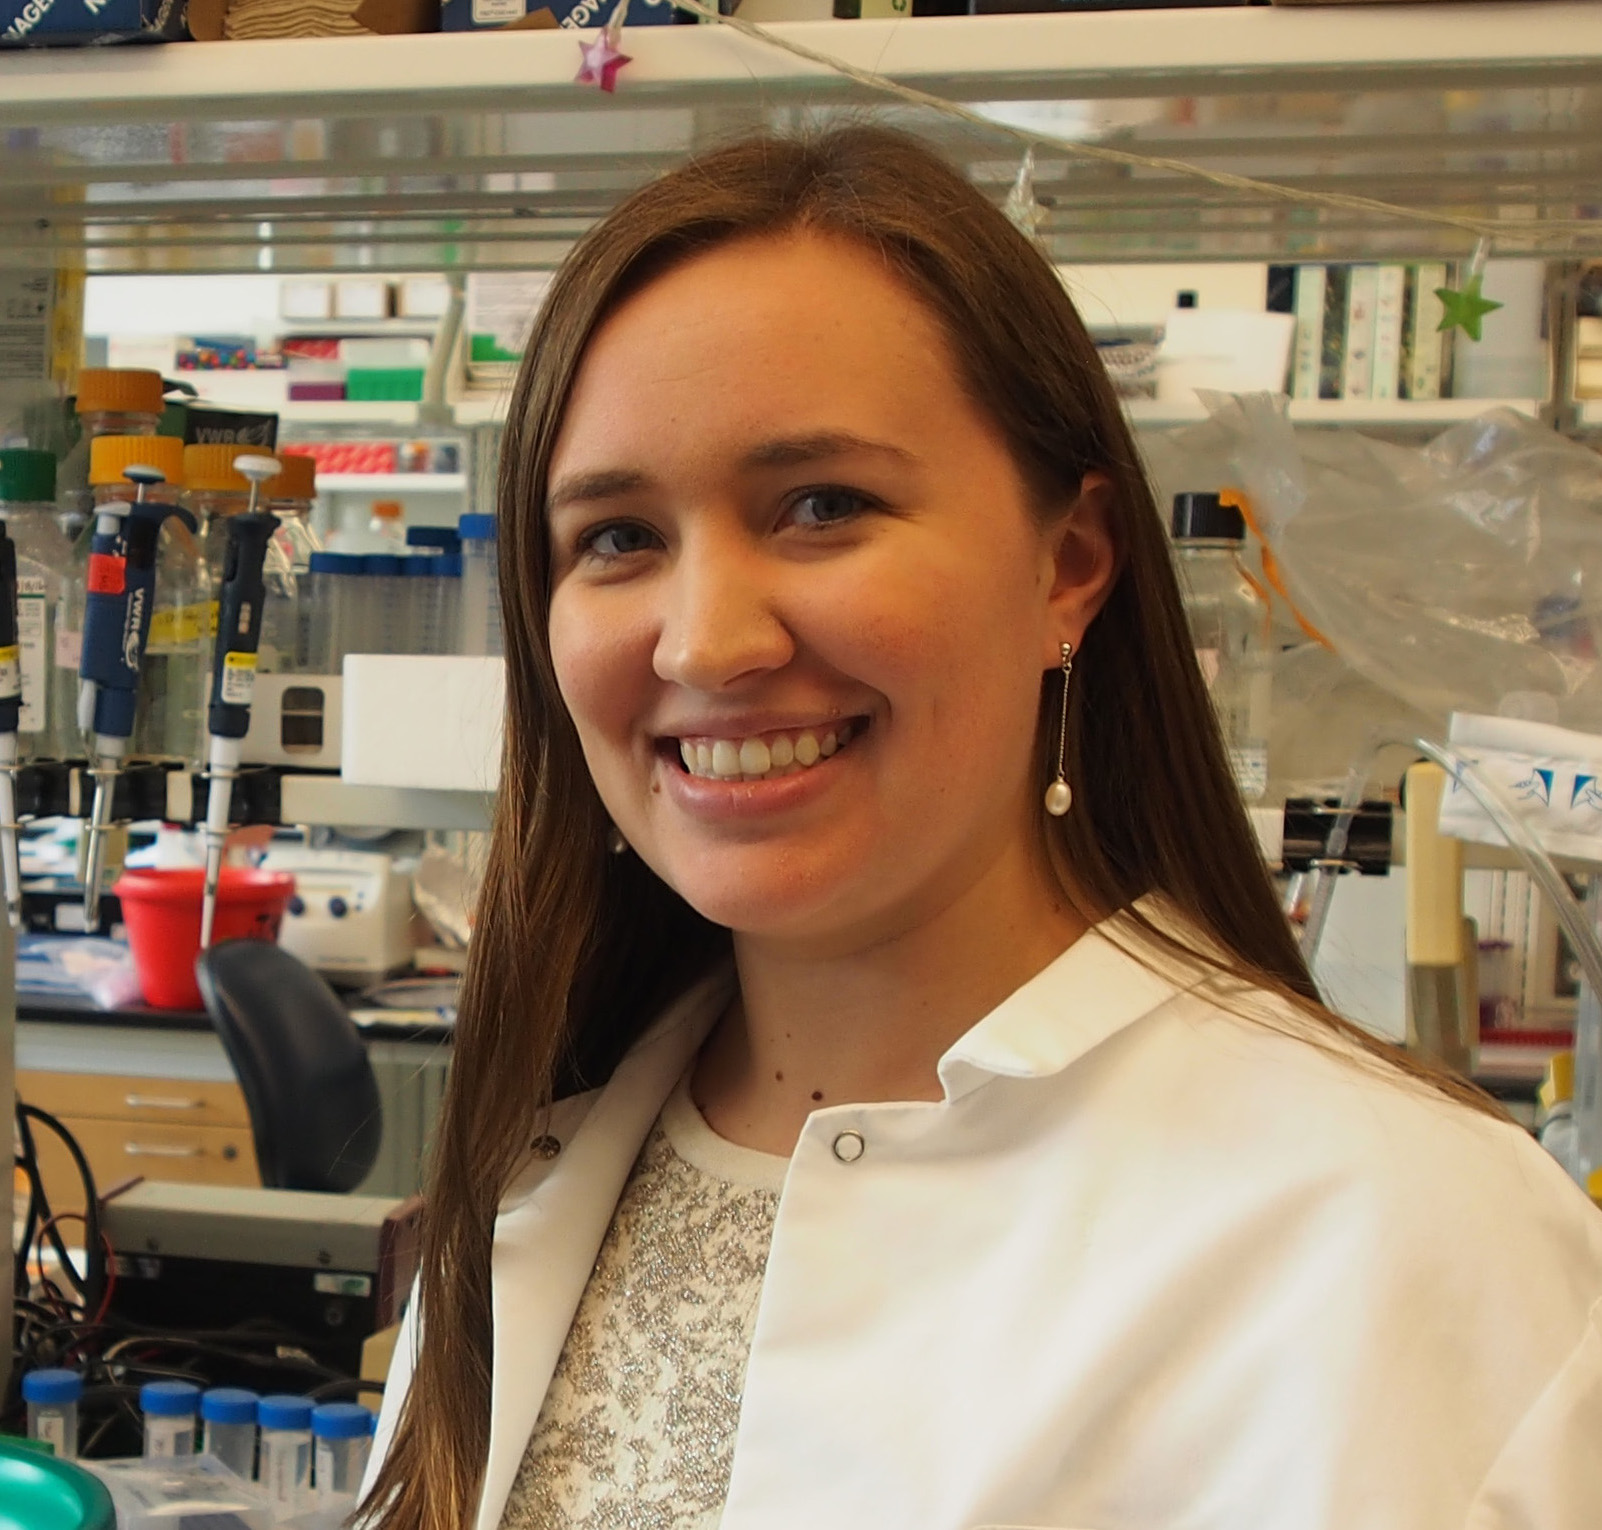
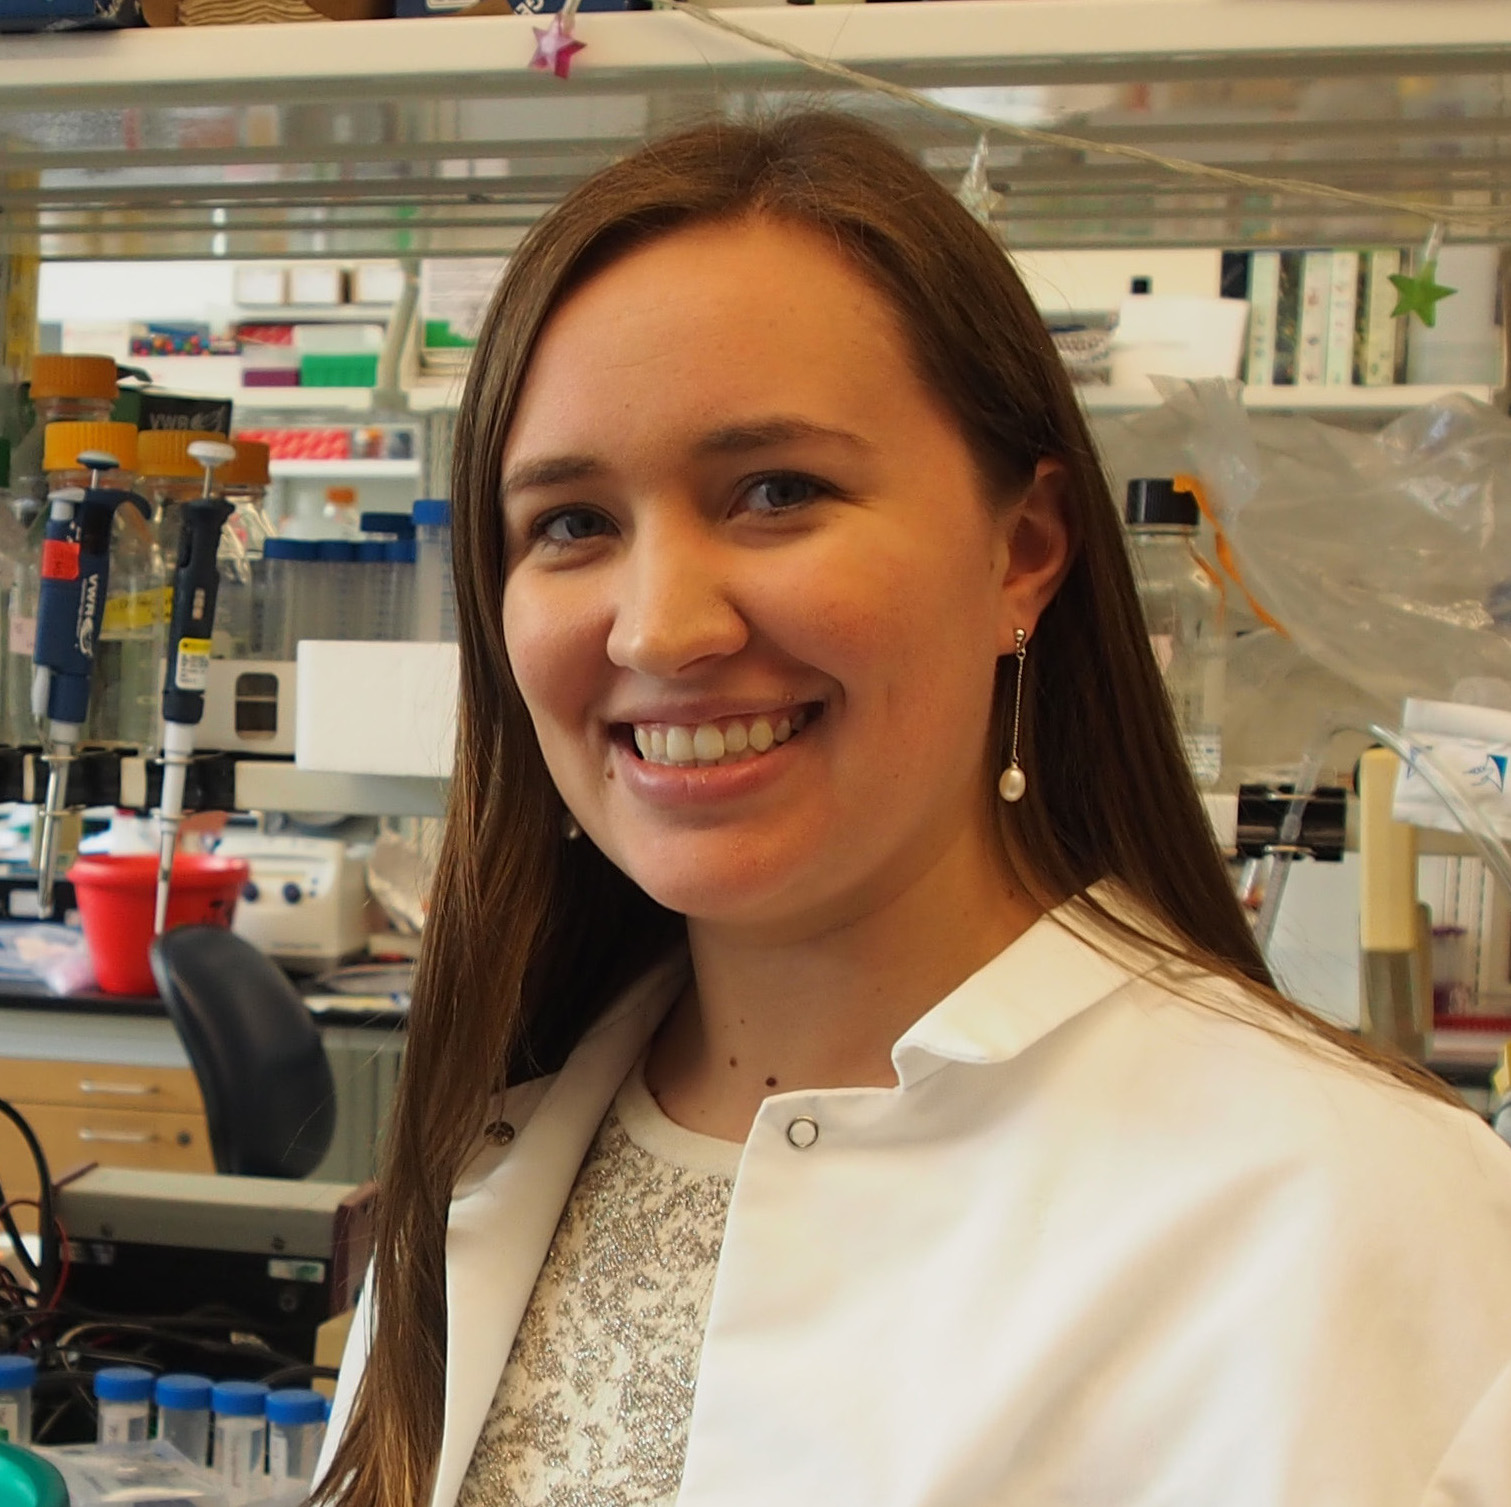
lindsay3

diff --git a/02-people.md b/02-people.md
@@ -29,7 +29,7 @@ permalink: "people.html"
 &nbsp;&nbsp;&nbsp;Vijay Sankaran Lab<br>
 <br><br><br>
 
-<img alt="Lindsay LaFave" align="left" src="media/people/LindsayLaFave2.jpg" width="140" height="140"/>
+<img alt="Lindsay LaFave" align="left" src="media/people/LindsayLaFave.jpg" width="140" height="140"/>
 &nbsp;&nbsp;&nbsp;<b>Lindsay LaFave, PhD</b><br>
 &nbsp;&nbsp;&nbsp;Collaborating Post Doc<br>
 &nbsp;&nbsp;&nbsp;Tyler Jacks Lab<br>
